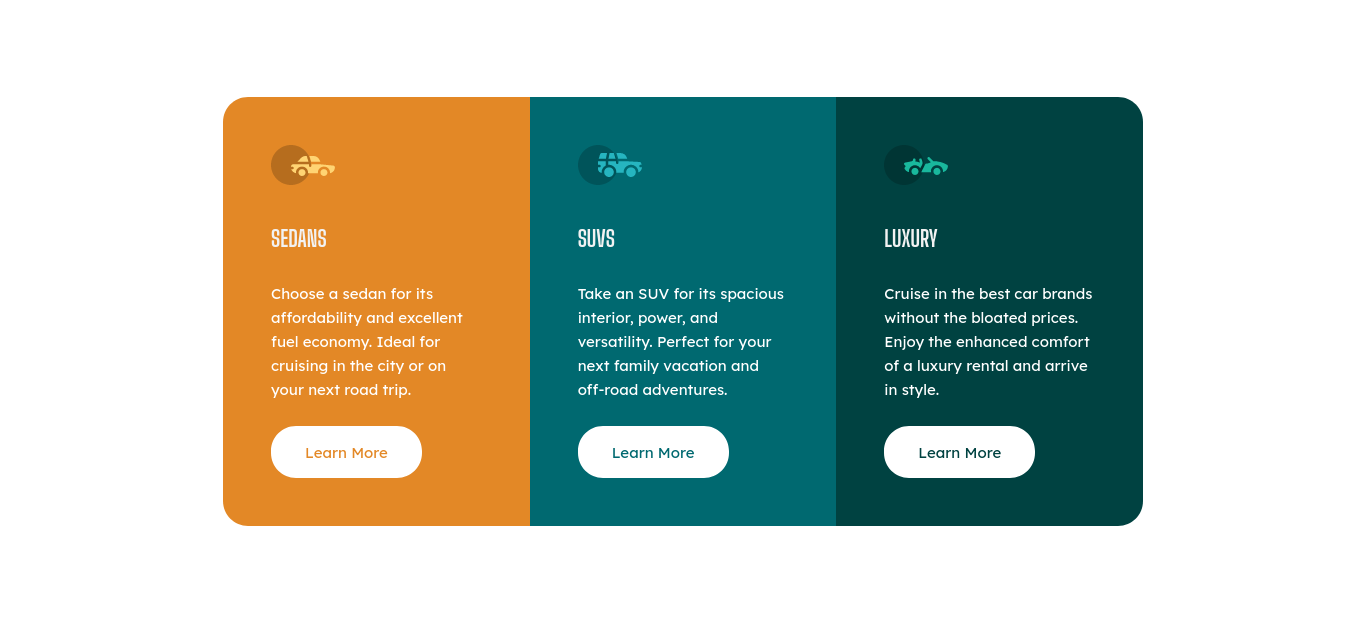
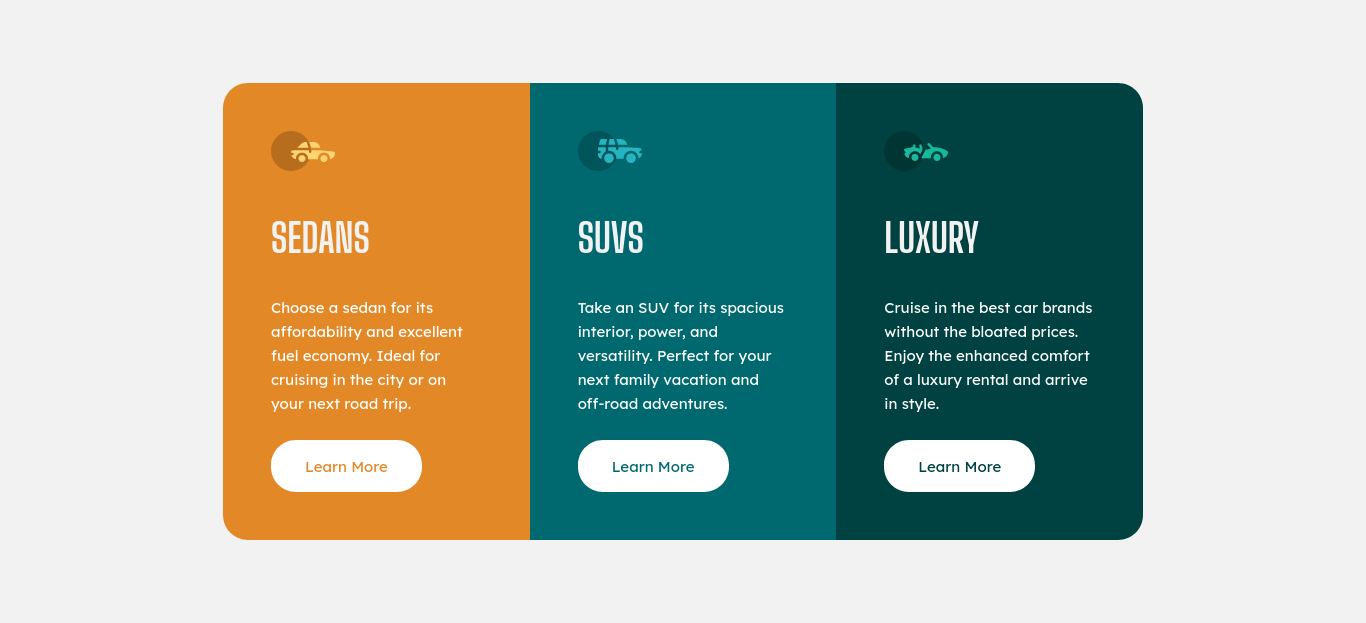
Update desktop screenshot

diff --git a/css/main.css b/css/main.css
@@ -50,7 +50,7 @@ body {
 
 h2 {
   font-family: "Big Shoulders Display", sans-serif;
-  font-style: 2.5rem;
+  font-size: 2.5rem;
   font-weight: 700;
   font-style: normal;
   color: hsl(0, 0%, 95%);
@@ -157,6 +157,7 @@ h2 {
 }
 
 .preview {
+  background-color: hsl(0, 0%, 95%);
   padding: 1.5rem 0;
 }
 @media (min-width: 64.0625rem) {
@@ -171,4 +172,4 @@ h2 {
   }
 }
 
[1 lines of base64/hex data omitted]
+/*# sourceMappingURL=main.css.map */

diff --git a/sass/base/_typography.scss b/sass/base/_typography.scss
@@ -10,7 +10,7 @@ body {
 }
 h2 {
   font-family: $font-secondary;
-  font-style: 2.5rem;
+  font-size: 2.5rem;
   font-weight: 700;
   font-style: normal;
   color: $clr-bleached-silk;
